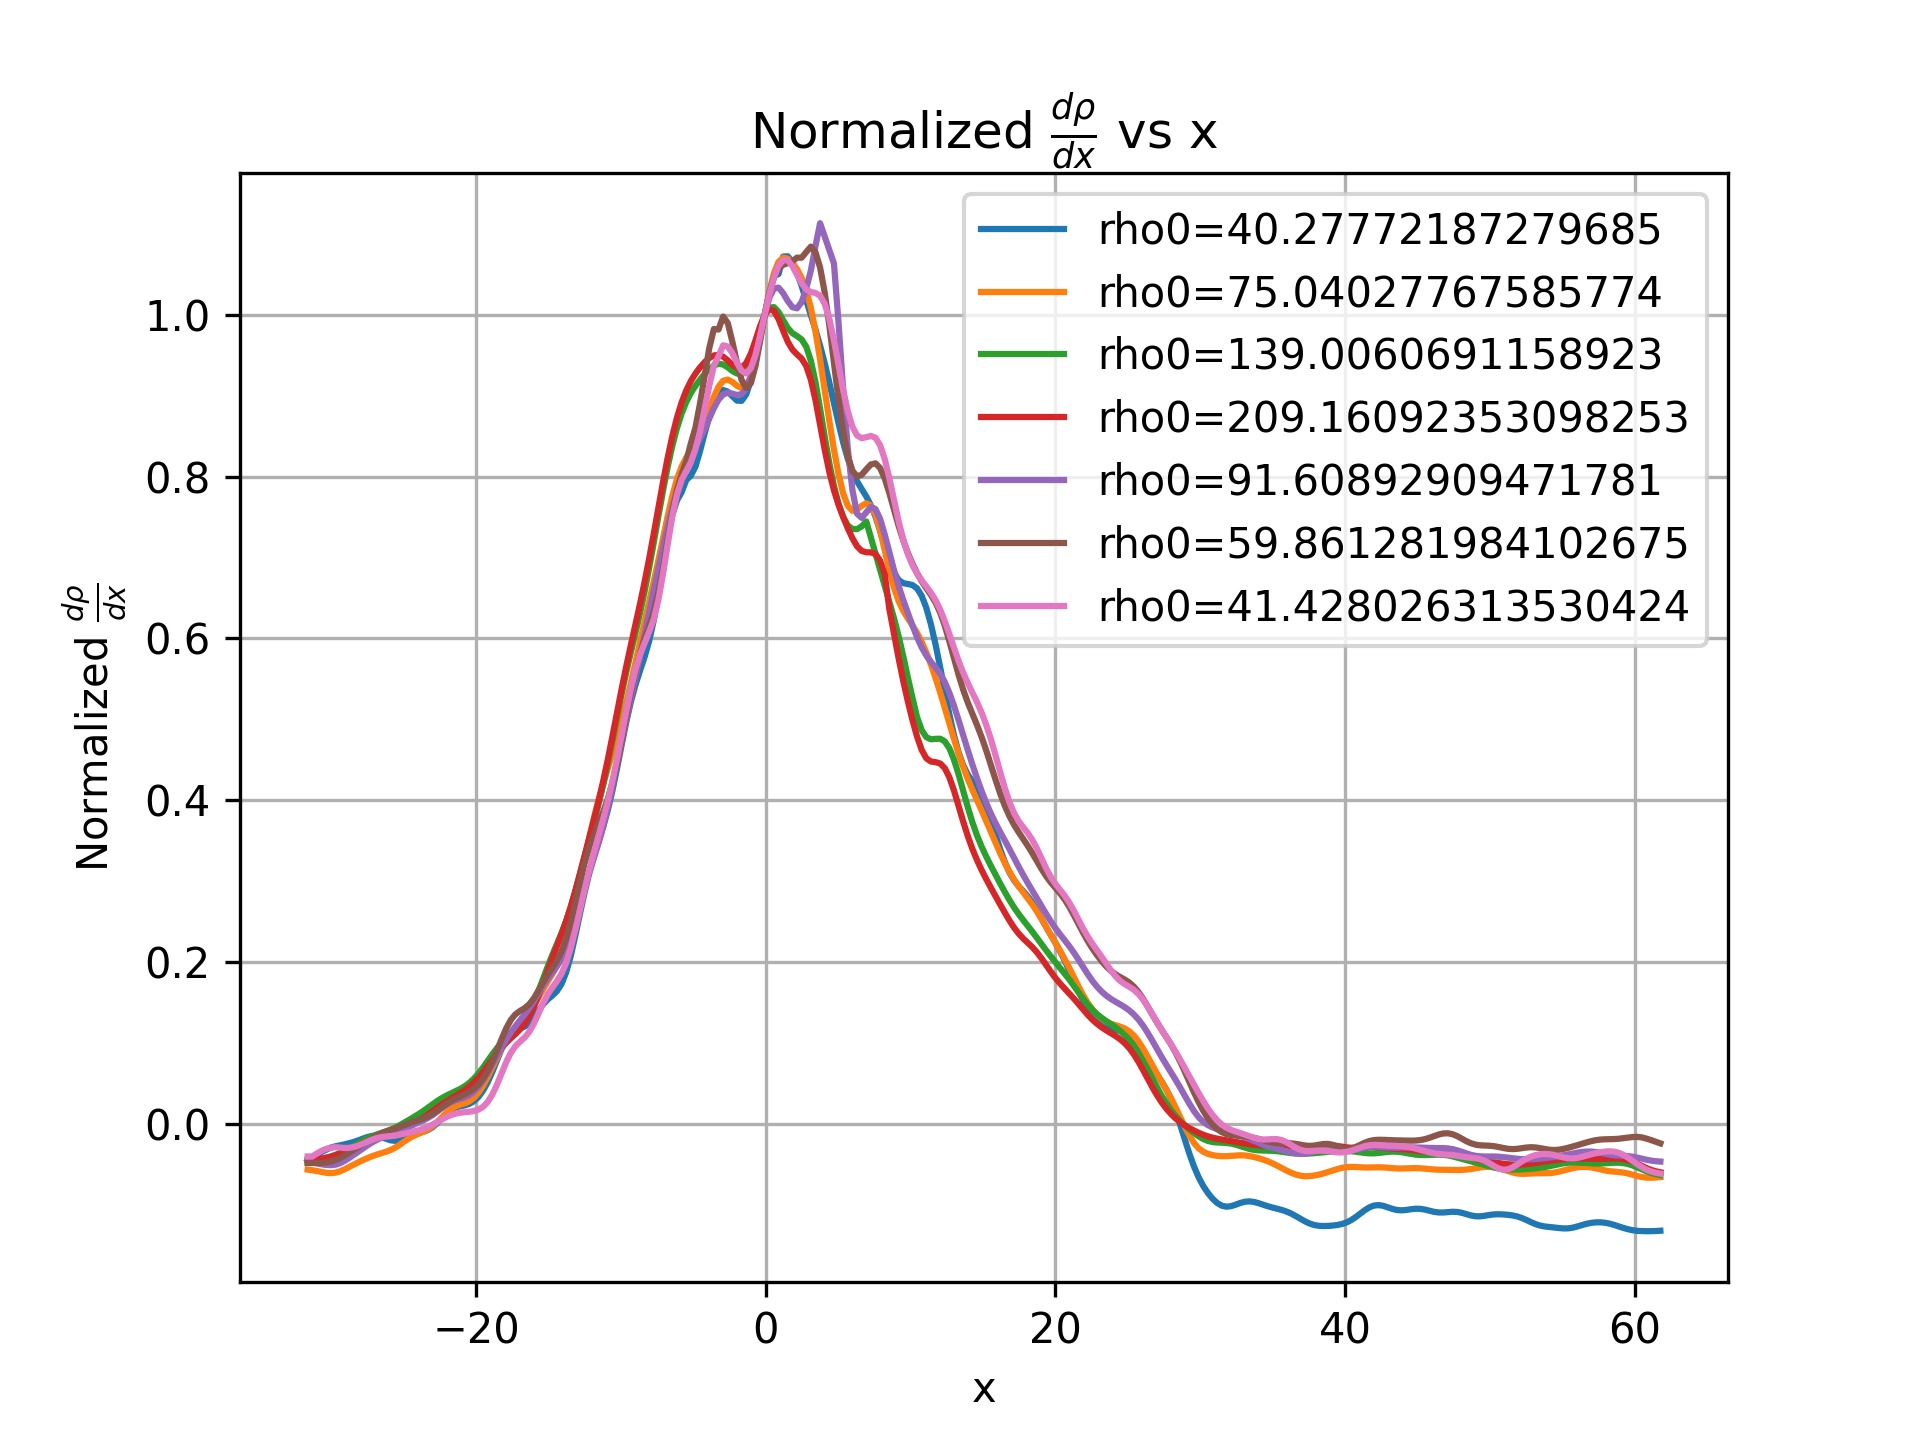
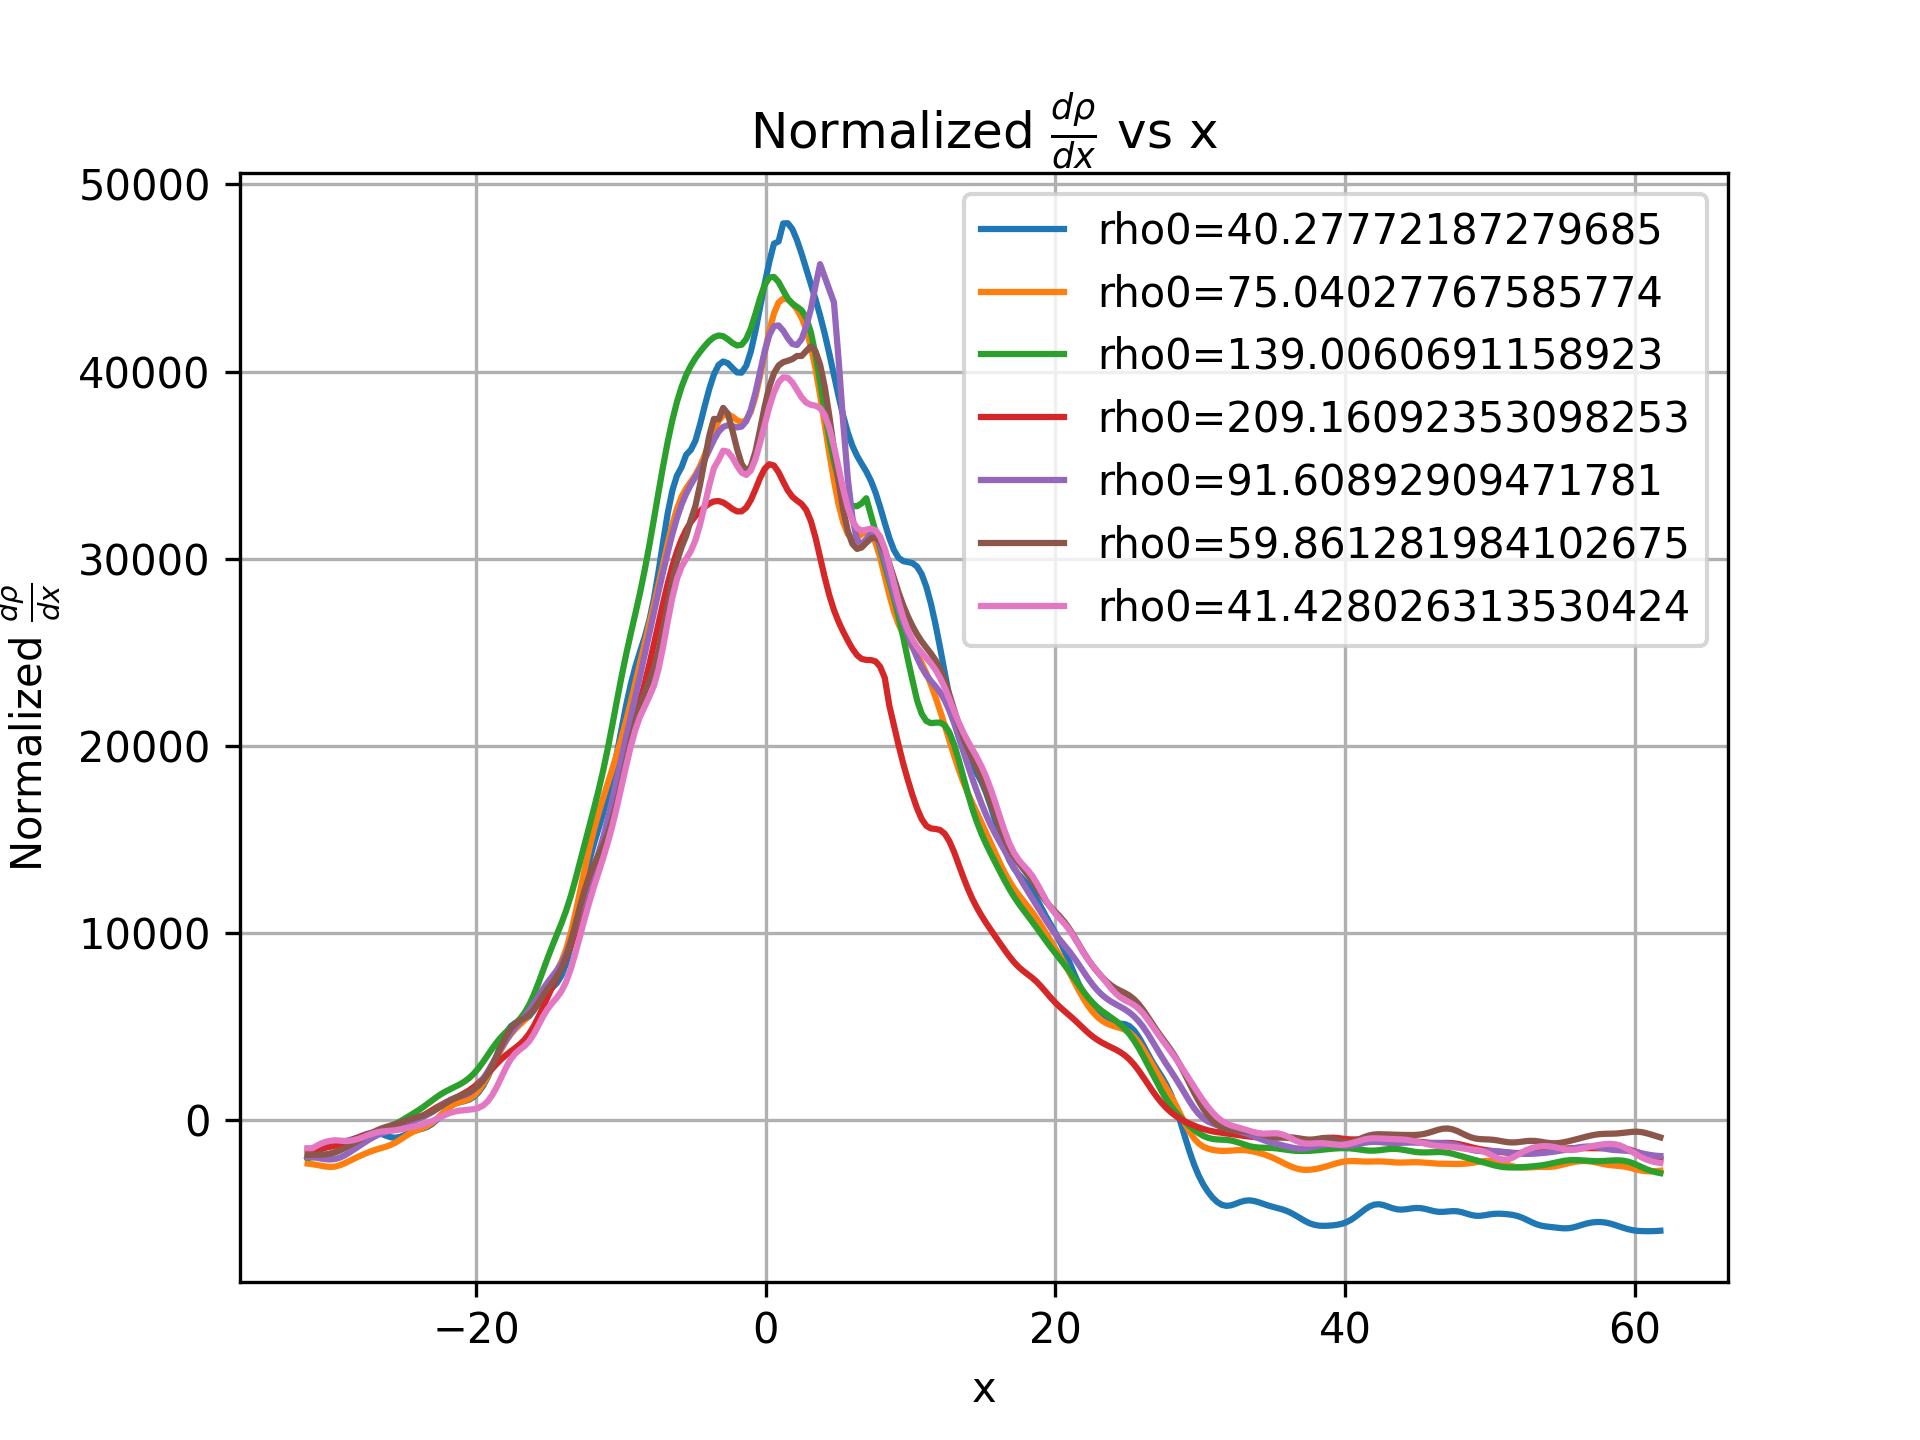
ola

diff --git a/D02 Plot_CrossCorrelation.py b/D02 Plot_CrossCorrelation.py
@@ -71,7 +71,7 @@ for i in range(1, 8):
     closest_idx = (midline_df['x'] - 0).abs().argmin()
     drho_dx_at_x0 = midline_df.loc[closest_idx, 'drho_dx']
 
-    midline_df['normalized_drho_dx'] = midline_df['drho_dx'] / drho_dx_at_x0
+    midline_df['normalized_drho_dx'] = midline_df['drho_dx'] / rho0[i-1]
 
     all_x.append(midline_df['x'].to_numpy())
     all_y_raw.append(midline_df['drho_dx'].to_numpy())
@@ -121,6 +121,54 @@ print("Max distance between normalized curves:", max_distance_normalized)
 
 # Max distance between non-normalized curves
 distance_raw = all_curves_raw.max(axis=0) - all_curves_raw.min(axis=0)
-max_distance_raw = distance_raw.max()
 
-print("Max distance between non-normalized curves:", max_distance_raw)
+
+# Plot non-normalized curves with upper/lower uncertainty bounds
+plt.figure()
+
+# Plot each non-normalized curve with its uncertainty separately
+for i in range(1, 8):
+    curve_idx = i - 1
+
+    y_curve = all_curves_raw[curve_idx]
+
+    # Convert normalized distance to raw scale for this rho0
+    uncertainty = distance_normalized * rho0[curve_idx]
+
+    upper = y_curve + uncertainty
+    lower = y_curve - uncertainty
+
+    plt.figure()
+
+    plt.plot(
+        x_common,
+        y_curve,
+        label=f'rho0={rho0[curve_idx]}'
+    )
+
+    plt.plot(
+        x_common,
+        upper,
+        '--',
+        label='Upper bound'
+    )
+
+    plt.plot(
+        x_common,
+        lower,
+        '--',
+        label='Lower bound'
+    )
+
+    plt.xlabel(r'x')
+    plt.ylabel(r'$\frac{d\rho}{dx}$')
+    plt.title(rf'$\frac{{d\rho}}{{dx}}$ with uncertainty (rho0={rho0[curve_idx]:.2f})')
+    plt.legend()
+    plt.grid(True)
+
+    plt.savefig(
+        f"FINAL PLOTS/Midline Density Gradient/CC-densitygrad_uncertainty_y0_case_{i}.png",
+        dpi=300
+    )
+
+    plt.show()
